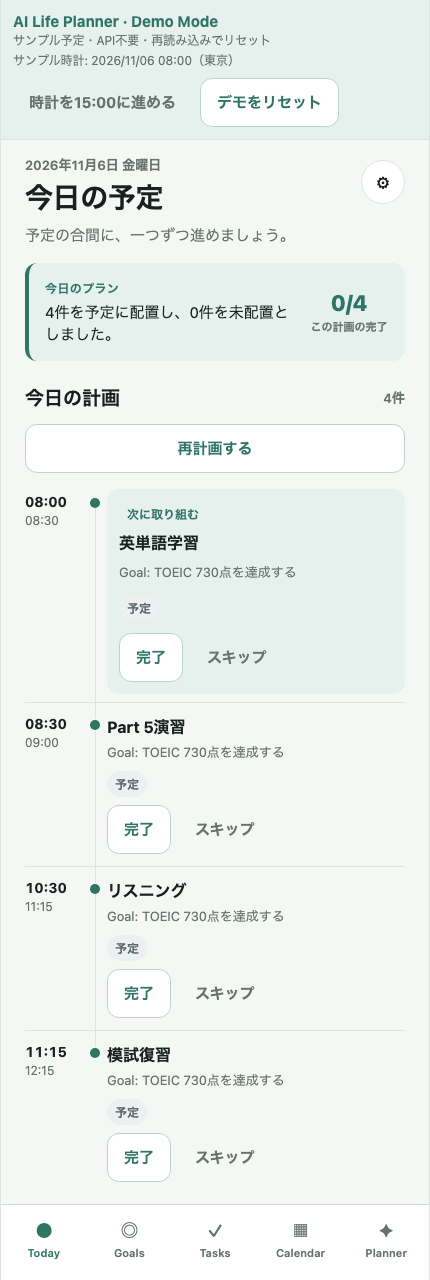
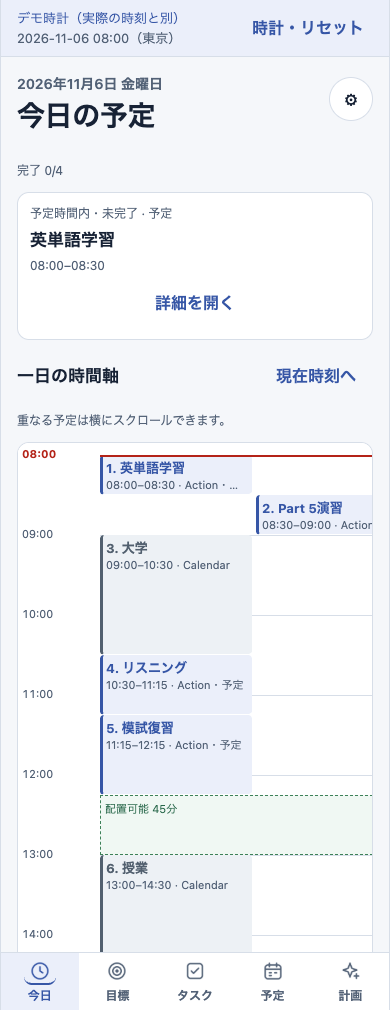
docs: refresh portfolio README and Web Demo screenshots

diff --git a/README.md b/README.md
@@ -1,13 +1,81 @@
 # AI Life Planner
 
-カレンダーの予定とGoals / Tasksから空き時間を計算し、その日の行動計画を自動生成するライフプランニングアプリ。
-React Native / ExpoによるNative版と、ログイン不要のWeb Demoで同じPlannerロジックを使います。
+カレンダーの予定を避けて、目標のためのタスクを1日の空き時間に自動で割り振るアプリです。
 
-## Demo
+## Web Demo
 
-**Web Demoは公開準備済みです。GitHub Pagesの初回公開・動作確認後、この節へ公開URLを追加します。**
+**ログイン不要で、サンプルの計画づくりから実行までブラウザで試せます。**
+GitHub Pagesは公開準備中です。公開後に確認したURLをここに掲載します。[ローカルで試す手順](#ローカルで試す)
 
-APIキーやアカウントなしで、サンプルの一日をブラウザで試せます。
+<img src="docs/screenshots/web-today-desktop.png" width="780" alt="PC版Web Demoの今日画面。左側のナビゲーションと、タスク・カレンダー予定・空き時間を表示した時間軸" />
+
+保存した計画を「今日」で開いた画面です。次に取り組むタスクと、その日の予定が時間軸に並びます。
+
+<details>
+<summary>モバイル幅の入口・保存前の確認・今日の時間軸を見る</summary>
+
+**Web Demoの入口** — サンプルですぐに計画を作るか、先にタスクを見るかを選べます。
+
+<img src="docs/screenshots/web-demo-mobile.png" width="340" alt="サンプルで計画を作ってみるボタンと3ステップの案内があるWeb Demoの入口" />
+
+**保存前の確認** — カレンダー予定と重ならない時間に入ったタスクを、時刻順に確認できます。
+
+<img src="docs/screenshots/web-planner-preview.png" width="340" alt="保存前の計画画面。4件のタスク、カレンダー予定との区別、保存ボタンを表示" />
+
+**保存後の「今日」** — 時間軸のカードを開いて、タスクを完了またはスキップできます。
+
+<img src="docs/screenshots/web-today.png" width="340" alt="保存直後の今日画面。次のタスク、08時の現在時刻線、カレンダー予定と配置可能な空き時間を表示" />
+
+</details>
+
+カレンダーと空き時間、目標、タスク一覧、PC版の入口も掲載しています。[スクリーンショット一覧](docs/screenshots/README.md)
+
+## 使い方
+
+1. 入口の **「サンプルで計画を作ってみる」** から「今日の計画を作成」を押します。
+2. 何をいつやるかを確認し、**「この計画を保存」** を押します。
+3. **「今日の計画を見る」** から時間軸へ進み、タスクを開いて完了・スキップを試せます。
+4. 予定を組み直したい場合は、デモ時計を15:00に進めてから「再計画する」を試せます。
+
+Web Demoはルールベースで動作します。OpenAI APIは使いません。デモ時計はサンプル日の時刻で、データはこのタブのメモリに保持されます。再読み込みやリセットで初期状態に戻ります。
+
+自分の使い方に合わせて、目標の進捗やタスクの所要時間・期限・優先度、活動時間や予定前後の余白も調整できます。iPhone向けNative版は、許可を得た端末カレンダーを読み取り、Supabaseでユーザー別に保存します。Native版には任意のOpenAI連携もあります。
+
+## 制作背景
+
+目標を立てても、いつ取り組むかを決めないままだと行動に移しにくくなります。タスクとカレンダーが別々だと、授業などの合間に何ができるかも見落としがちです。そこで、目標をタスクに分け、予定の合間の具体的な時刻に割り振り、実行結果に応じて組み直せるアプリを作りました。
+
+## 技術的な工夫
+
+- **空き時間を計算する。** 読み取った予定の重なりをまとめ、前後の余白と最小空き時間を考慮します。プロフィールのタイムゾーンを基準に、翌日深夜までの活動時間や夏時間（DST）の境界も扱います。
+- **作成と保存を分ける。** ルールベースで期限・優先度・所要時間を使って配置し、承認時に最新の設定・予定・タスクで再検証します。保存条件を満たさなくなった提案は拒否します。
+- **保存と実行の整合性を保つ。** NativeではSupabase Authと行レベルセキュリティ（RLS）を使い、計画と明細をDB関数内の一つのトランザクションで保存します。完了・スキップの履歴は再計画後も参照できます。
+- **NativeとWebで計算を共用する。** 共通の計画・検証処理を使い、データの読み書きだけを切り替えます。Web Demoは端末カレンダーやSupabaseへ接続せず、サンプルとメモリ上のデータで動きます。
+
+実装の入口と保存境界は[アーキテクチャ](docs/architecture.md)へ。制作の進め方とCodexの利用範囲は[ポートフォリオ用の開発紹介](docs/portfolio.md)にまとめています。
+
+## 技術スタックと構成
+
+| 領域        | 技術                                                                                 |
+| ----------- | ------------------------------------------------------------------------------------ |
+| アプリ・Web | React Native、Expo SDK 57、Expo Router、React Native Web                             |
+| 計画・表示  | TypeScript、共通PlannerとValidator、Clearデザインシステム                            |
+| Native連携  | Expo Calendar、Supabase Auth／PostgreSQL／RLS、任意のOpenAI用Edge Function           |
+| 品質・配信  | Jest、React Native Testing Library、ESLint、Prettier、GitHub Actions、静的Web export |
+
+`src/features` に機能ごとの画面と共通の業務処理、`src/services` にデータ接続を置き、`src/navigation` でプラットフォームごとに接続先を選びます。[設計・検証ドキュメント一覧](docs/README.md)
+
+## テストと検証範囲
+
+- **自動テスト** — 68スイート・715件が成功（2026年11月10日）。計画、時刻・DST、保存・実行・再計画などを検証しています。GitHub ActionsのCIで型・lint・フォーマットとJestを確認します。
+- **Web／Simulator** — 最新のWeb exportをChromeで操作し、375pxと1440pxの初回体験、生成・保存・完了・スキップ・再計画を確認しました。iOS Simulatorでの時間軸、短い予定、文字拡大の確認は別記録にまとめています。[Web検証](docs/web-demo.md#今回の公開準備で確認した範囲) · [時間軸の検証](docs/today-time-axis.md)
+- **iPhone実機** — Core v1の主要フローと、当時のRelease版のUSB・Metroなしでの起動を確認済みです。Step 10のPR #15相当版では一部を実機で再確認しました。実機VoiceOver・文字拡大、同版のUSB解除後の確認などが残っています。[Core v1の実機記録](docs/ios-personal-release.md) · [Step 10の確認範囲](docs/portfolio.md#実機とブラウザでの確認範囲)
+
+OpenAI実API・Android・全ブラウザの動作は検証範囲外です。対応状況の詳細は[開発・検証記録](docs/README.md)を参照してください。
+
+## ローカルで試す
+
+Node.js `^22.13.0 || >=24` とnpmを用意します。Web Demoの起動に環境変数やアカウントは不要です。
 
 ```sh
 npm ci
@@ -16,133 +84,10 @@ npm run verify:pages
 npm run preview:pages
 ```
 
-[ローカルのWeb Demoを開く](http://127.0.0.1:4173/ai-life-planner/) → Tasksを確認 → Calendarの空き時間を確認 → Plannerで生成 → Previewを保存 → Todayで完了・スキップ。
+[ローカルのWeb Demoを開く](http://127.0.0.1:4173/ai-life-planner/)。Native開発には自分のSupabase開発プロジェクトと開発ビルドが必要です。iOSのビルドはmacOSとXcodeを使用します。[開発手順・品質チェック](docs/development.md)
 
-サンプル時計は**2026年11月6日08:00（東京）**に固定しています。「時計を15:00に進める」で再計画を試せます。
-データはこのタブのメモリ内に保持し、reload・リセットで初期化します。Supabase・端末Calendar・OpenAIへの接続は不要です。
-公開手順は[Web Demoガイド](docs/web-demo.md)を参照してください。
+## セキュリティ・ライセンス
 
-## Overview
+端末カレンダーは読み取り専用です。NativeのOpenAI APIキーはSupabase Edge Function側で管理し、アプリには含めません。実際の `.env` やサーバー用の秘密鍵はGit管理の対象外です。[公開前チェック](docs/portfolio-release.md#現在のpages公開前チェック)
 
-目標を立てても、今日いつ何をするかまで決めるのは難しい。タスクリストとカレンダーが別々だと、
-予定の合間に使える時間も見落としがちです。
-
-AI Life Plannerは、目標を具体的なTaskへ分け、カレンダーの空き時間へ自動配置します。
-提案を確認してから保存し、実行結果を記録して、残り時間の計画を組み直すところまでを一つの流れにしました。
-自身が使うNativeアプリとして開発し、設計と動作を第三者にも試してもらえるようWeb Demoを用意しています。
-
-## Main Features
-
-| 機能                           | Native                                                               | Web Demo                             |
-| ------------------------------ | -------------------------------------------------------------------- | ------------------------------------ |
-| Goals / Tasks / Settings       | 目標・TaskのCRUD、所要時間・優先度・期限・計画設定                   | 同じ操作をサンプルデータで体験       |
-| Calendar / Free Time           | 権限取得後に端末予定を読み取り、timezoneと活動時間から空き時間を計算 | サンプル予定から同じCalculatorで計算 |
-| RuleBased Planner              | 期限・優先度・所要時間から決定的に配置。API不要                      | 同じProviderを使用                   |
-| Optional OpenAI Planner        | 共通Contractに沿う任意Providerを実装                                 | 使用しない                           |
-| Preview / Save / Today         | Validatorで検証し、承認後にDBへ保存して表示                          | メモリへ保存してTodayへ反映          |
-| Complete / Skip / Activity Log | 完了時は関連Taskも完了。SkipはTaskを残し、実行履歴を保持             | 同じ操作・履歴を体験                 |
-| Replanning                     | 最新データと残り時間で全置換。競合・古いPreviewを検知し、履歴は保持  | メモリ内の競合ガードで同じ流れを体験 |
-| Auth / persistence             | Supabase Auth・RLS・PostgreSQLによるユーザー別保存                   | ログイン不要。reloadで初期化         |
-
-Core v1 Native版の主要フローはiOS Simulator・iPhone 16で確認済みです。
-無料Personal Team署名の**Release buildで、Metro停止・USB解除後のiPhone単体利用も確認済み**です。
-再署名・上書きinstall手順と検証範囲は[Personal Team Release](docs/ios-personal-release.md)を参照してください。
-OpenAIは任意機能の実装であり、実APIの動作確認を今回の検証範囲には含めていません。
-
-## How it works
-
-```mermaid
-flowchart LR
-  source[Goals / Tasks + Calendar] --> free[Free Time Calculator]
-  free --> planner[Planner + Validator]
-  planner --> preview[Preview]
-  preview -->|承認・保存| today[Today]
-  today -->|Complete / Skip・Replanning| source
-```
-
-Nativeは端末CalendarとSupabase、Web DemoはサンプルCalendarとメモリ内Repositoryを入力・保存先に使います。
-提案を作っただけでは保存せず、ユーザーの承認を境界にします。
-
-## Screenshots
-
-以下は**Web Demoの実画面**です。TOEIC学習のサンプルデータのみを使い、Native実機画面と区別しています。
-
-<table>
-  <tr><th>Today</th><th>Planner Preview</th><th>Calendar / Free Time</th></tr>
-  <tr>
-    <td><img src="docs/screenshots/web-today.png" width="260" alt="サンプルTaskが配置されたWeb DemoのToday画面" /></td>
-    <td><img src="docs/screenshots/web-planner-preview.png" width="260" alt="保存前のルールベースPlanner Preview" /></td>
-    <td><img src="docs/screenshots/web-calendar-free-time.png" width="260" alt="大学・授業などの予定と4枠の空き時間" /></td>
-  </tr>
-</table>
-
-[Desktop版・Goals / Tasksの画像と撮影手順](docs/screenshots/README.md)も用意しています。
-
-## Tech Stack
-
-| 領域               | 技術                                                                          |
-| ------------------ | ----------------------------------------------------------------------------- |
-| App / Web          | React Native 0.86.3、Expo SDK 57、React 19.2.3、React Native Web、Expo Router |
-| 言語 / 品質        | TypeScript strict、Jest、React Native Testing Library、ESLint、Prettier       |
-| Nativeデータ       | Supabase Auth、PostgreSQL、RLS、transactional RPC                             |
-| Calendar / session | expo-calendar、expo-sqlite                                                    |
-| 任意AI             | Supabase Edge Functions → OpenAI Responses API                                |
-| CI / hosting       | GitHub Actions、GitHub Pages向けstatic export                                 |
-
-## Architecture
-
-- **Coreを共有**: 空き時間計算・候補選定・配置・ValidatorはNative / Webで共通のTypeScriptロジック。
-- **Repository境界**: UIと業務処理はinterfaceへ依存し、Supabase / 端末Calendar / DemoのI/Oをadapterで分離。
-- **Provider共通Contract**: RuleBasedと任意OpenAIの出力を`unknown`から共通Validatorで検証。
-- **承認とatomic persistence**: Preview承認時に最新データで再検証し、NativeではPlanとActionをRPCで一括保存。
-- **履歴と競合**: Activity Logは実行時点のsnapshot。Guarded Replanningで旧Previewの上書きを防ぎ、置換後も履歴を保持。
-- **Demoの独立**: Web用compositionはNative側のAuth / Supabase / Calendar SDKをbundleへ取り込まず、production DBへ接続しない。
-
-コードの入口と設計の説明は[Architecture](docs/architecture.md)、要件・検証の一覧は[docs index](docs/README.md)へ。
-
-## Testing / Verification
-
-- **54 test suites / 497 tests**（unit / integration）。Planner、timezone、Calendar正規化、CRUD、承認、保存、実行、履歴、再計画を検証。
-- **iOS Simulator E2E・iPhone 16実機**でCore v1の主要フローを確認。[Native検証記録](docs/README.md#verification)
-- **Web production export**をローカル配信し、生成→保存→実行→再計画、直接URL、reloadを確認。
-- Desktop / Tablet / Mobile相当の1440 / 768 / 390 / 375px幅を確認。[Web検証記録](docs/web-demo.md#verification)
-
-検証済み範囲と未確認事項は各記録に分けて記載しています。Android、全ブラウザ、全異常系の保証ではありません。
-
-## Development / Local Setup
-
-前提: Node.js `^22.13.0 || >=24`、npm。Web Demoは先頭の手順だけで動作します。
-
-Native開発はiOS / Android開発環境と、自分のSupabase開発プロジェクトを用意します。
-
-```sh
-npm ci
-cp .env.example .env
-# .envに自分のSupabase Project URLとPublishable Keyを設定
-npm run ios
-# インストール済みdevelopment buildへ接続する場合
-npm run start:dev
-```
-
-Calendar APIはExpo Goでは使えないためdevelopment buildが必要です。iOSのローカルbuildにはmacOS / Xcodeが必要です。
-DB migrations・RLS確認・任意OpenAIの設定・Androidの手順は[開発ガイド](docs/development.md)へ。
-
-```sh
-npm run typecheck
-npm run lint
-npm run format:check
-npm run test:ci
-```
-
-PR用CIでは上記の品質チェックを実行します。Pages公開workflowはmainを対象とした**手動実行のみ**です。
-
-## Security
-
-OpenAI API keyはSupabase Edge Function Secretにのみ置き、clientへ渡しません。
-Supabaseの`service_role` / Secret Keyもclientへ置きません。`.env`はGit管理対象外で、`.env.example`は変数名のみです。
-Web Demoはproduction SupabaseとOpenAIを使用せず、利用者の入力を公開サーバーへ保存しません。
-公開前検査の範囲と残る確認は[公開準備・監査記録](docs/portfolio-release.md)にまとめています。
-
-## License
-
-[MIT](LICENSE)。Expo由来のcopyright noticeを保持しています。
+[MITライセンス](LICENSE)。Expo由来の著作権表示を保持しています。

diff --git a/docs/screenshots/README.md b/docs/screenshots/README.md
@@ -1,45 +1,35 @@
-# Portfolio screenshots
+# Web Demoのスクリーンショット
 
-このフォルダの画像はすべて**Web Demoの実画面**。Native版の画面であるようなラベルは付けない。
-撮影日: 2026-11-06（Asia/Tokyo）。Chrome、production `dist`のローカル配信を使用。
-ブラウザのツールバーを含めず、ページ自体をキャプチャした。画像内容の合成・加工はしていない。
+2026年11月10日に、PR #17までを取り込んだ `main`（`92d609f`）のproduction exportを、分離したChromeプロファイルで撮影しました。Clearデザインと80px／時間の時間軸が入ったWeb Demoの実画面です。すべてサンプルデータを使用し、ブラウザのツールバーや開発者メニューを含めず、合成なしで保存しています。
 
-## 用意済み
+| 画像                                               | 撮影時の状態                                                     | ビューポート |
+| -------------------------------------------------- | ---------------------------------------------------------------- | ------------ |
+| [入口・モバイル幅](web-demo-mobile.png)            | 初回表示。サンプルで計画を作る主操作と3ステップの案内            | 390×900      |
+| [計画のプレビュー](web-planner-preview.png)        | ルールベースで4件を配置した直後。保存前の確認と保存ボタン        | 390×1070     |
+| [今日の時間軸・モバイル幅](web-today.png)          | 保存後・実行前。次のタスク、現在時刻線、予定、配置可能な空き時間 | 390×1010     |
+| [カレンダーと空き時間](web-calendar-free-time.png) | サンプル予定3件と、配置可能な空き時間4枠・合計660分              | 390×1680     |
+| [目標](web-goals.png)                              | TOEICの目標、現在値600点と目標値730点、進捗82%                   | 390×600      |
+| [タスク](web-tasks.png)                            | 計画作成前の学習タスク。所要時間、期限、優先度、絞り込み         | 390×1300     |
+| [入口・PC幅](web-demo.png)                         | 初回表示。横並びの操作と体験の3ステップ                          | 1440×640     |
+| [今日の時間軸・PC幅](web-today-desktop.png)        | 保存後・実行前。左のサイドナビと右の時間軸                       | 1440×900     |
 
-| ファイル                                                 | 状態・用途                                                                  | viewport |
-| -------------------------------------------------------- | --------------------------------------------------------------------------- | -------- |
-| [web-today.png](web-today.png)                           | 4 Task保存後。全件scheduled、次のActionと完了・Skip操作が分かる。README掲載 | 430×1280 |
-| [web-planner-preview.png](web-planner-preview.png)       | RuleBasedで4件配置、保存前、配置時刻とCalendar非重複が分かる。README掲載    | 430×1280 |
-| [web-calendar-free-time.png](web-calendar-free-time.png) | サンプル予定3件と空き時間4枠・合計660分。README掲載                         | 430×1280 |
-| [web-tasks.png](web-tasks.png)                           | 同じ4 Task、優先度・期限・所要時間。追加の紹介用                            | 430×1000 |
-| [web-goals.png](web-goals.png)                           | TOEICのGoalと進捗。追加の紹介用                                             | 430×1000 |
-| [web-demo.png](web-demo.png)                             | Desktopの入口と体験説明。ポートフォリオのリンク用                           | 1280×900 |
-
-READMEには主要3枚だけを横並びで載せる。追加画像はここから参照できる。
-撮影用の長いviewportは情報を読みやすく収めるためのもの。特定iPhoneの実解像度を表すものではない。
-375 / 390px等の通常viewportでの表示検証は[Web Demo記録](../web-demo.md#verification)を参照。
+高さは各画面の情報を収めるために設定した撮影用の値です。通常の375px幅・1440px幅での動作確認は[Web Demoの検証記録](../web-demo.md#今回の公開準備で確認した範囲)を参照してください。
 
 ## 共通データ
 
-- Goal: **TOEIC 730点を達成する**、現在600点、目標730点、期限2026-12-06。
-- Tasks: 英単語30分（高・サンプル当日期限）、Part 5演習30分（高・翌日期限）、リスニング45分（中）、模試復習60分（低）。
-- Calendar: 大学09:00–10:30、授業13:00–14:30、サークルの予定18:00–19:00。
-- Settings: Asia/Tokyo、08:00–23:00、最小20分。
-- サンプル時計: 2026-11-06 08:00 JST。実際の現在時刻ではない。
-- 保存後の配置: 08:00–08:30、08:30–09:00、10:30–11:15、11:15–12:15。
+- 目標はTOEIC 730点。現在600点、期限は2026年12月6日です。
+- タスクは英単語30分、Part 5演習30分、リスニング45分、模試復習60分です。
+- カレンダーは大学09:00–10:30、授業13:00–14:30、サークルの予定18:00–19:00です。
+- 設定はAsia/Tokyo、活動時間08:00–23:00、最小空き時間20分です。
+- デモ時計は2026年11月6日08:00（東京）。保存した4件は08:00、08:30、10:30、11:15に始まります。
 
-Web画像に実名・メール・Supabase情報・APIキー・端末の個人予定はない。
-README掲載前に全画像を目視確認した。撮影で利用した一時Chrome profileとダミーデータは本番データから分離している。
+## 再撮影する場合
 
-## Webの再撮影
-
-1. `npm run export:pages`、`npm run verify:pages`、`npm run preview:pages`を実行する。
-2. ローカルのDemoを新しいブラウザprofileまたはprivate windowで開く。ログインは不要。
-3. 「デモをリセット」で08:00へ戻し、Goal / Tasksが上記のデータになっていることを確認する。
-4. Calendarを撮影。Plannerを生成し、**保存前**のPreviewを撮影する。
-5. 保存してTodayへ移り、完了・Skipする前の状態を撮影する。
-6. 同じviewportと拡大率100%を使い、個人profileのブラウザtoolbar・通知を含めない。
-7. ファイル名はこのフォルダのものを使用し、個人情報がないことを目視で確認する。
+1. `npm run export:pages`、`npm run verify:pages`、`npm run preview:pages`を実行します。
+2. 分離したブラウザプロファイルで入口を開きます。データを初期化する場合はページを再読み込みするか、「時計・リセット」から「デモをリセット」を使います。
+3. 入口・目標・タスク・カレンダーを撮影します。計画を作成し、**保存前**のプレビューを撮影します。
+4. 計画を保存して「今日の計画を見る」を押し、完了・スキップする前の時間軸を撮影します。
+5. 幅・表示倍率・ファイル名を揃え、氏名やメールアドレス、実際の予定、接続先や秘密情報が写っていないことを目視で確認します。
 
 ## Native画面を追加する場合（ユーザー操作）
 

diff --git a/docs/portfolio.md b/docs/portfolio.md
@@ -1,0 +1,30 @@
+# ポートフォリオ用の開発紹介
+
+## 30秒で説明する
+
+目標を決めても、カレンダーの予定を見ながら「いつやるか」まで決めるのは手間がかかります。AI Life Plannerは、目標に紐づくタスクを予定の合間に割り振り、確認してから保存できるアプリです。「今日」の時間軸から完了やスキップを記録し、残り時間の計画を組み直せます。ログイン不要のWeb Demoではサンプルの一日を体験できます。
+
+## 面接で説明できる設計判断
+
+| 課題                                           | 実装と判断                                                                                                                                                                                                                                  |
+| ---------------------------------------------- | ------------------------------------------------------------------------------------------------------------------------------------------------------------------------------------------------------------------------------------------- |
+| カレンダー上の隙間がそのまま使えるとは限らない | 端末カレンダーは権限を得て読み取り専用で取得。塞がる区間の統合、共通・個別の余白、最小空き時間を反映して候補を求める。活動が翌日にまたがる場合は計画日と暦日を分け、時刻表示はプロフィールのタイムゾーン、経過時間の計算はUTCを基準にする。 |
+| 配置結果を確認してから使いたい                 | ルールベースで期限・優先度・所要時間を使って決定的に配置。承認時に最新データで再検証し、枠外や候補消失などで無効になった提案の保存を拒否。時間の境界や変更後の承認をJestで検証する。                                                        |
+| 保存・再計画で記録を壊したくない               | Supabase AuthとRLSで操作をユーザー別に制限し、計画と明細をRPC内で一括保存。再計画では競合条件も確認する。完了は関連タスクも完了にし、スキップはタスクを残す。履歴は実行時点の内容を保持するので、計画を組み直しても参照できる。             |
+| 閲覧者が設定なしで試せるようにする             | React NativeとWebで空き時間計算・計画・検証を共有。Webだけ端末カレンダーとSupabaseの代わりにサンプル・メモリ内Repositoryを使う。Web Demoではルールベースのみを使用し、任意のOpenAI連携はNativeからEdge Functionを経由する。                 |
+
+実装の入口とRepositoryの役割は[アーキテクチャ](architecture.md)、日付や承認の境界は[翌日深夜対応の設計](overnight-planning.md)にまとめています。
+
+## 開発と検証の進め方
+
+要件を段階に分け、目標・タスク・予定から計画を作る流れと、承認・実行・履歴を先に整えました。その後、翌日深夜の活動、時間軸、画面ごとの情報の優先順位を順に改善しました。UIでは複数案を比較してClearを採用し、Web Demoの入口では初めての人がタスクを登録せずに試せる導線を優先しました。[要件定義](requirements/requirements-v0.1.md) · [Clearデザインシステム](clear-design-system.md)
+
+Codexを、コードやテストの実装、既存実装の調査、ブラウザでの動作確認、差分確認の補助に使いました。開発の説明では、採用した要件・設計判断と、テストやブラウザ・実機で確認した範囲を区別します。PRとmainではGitHub Actionsで型・lint・フォーマット・Jestを実行し、Webの公開用成果物は静的exportと検査で確認します。[開発手順](development.md) · [Webの検証記録](web-demo.md#今回の公開準備で確認した範囲)
+
+## 実機とブラウザでの確認範囲
+
+- **Core v1のiPhone 16**では、端末予定の読み取り、計画の保存・実行・再計画などを確認。当時のPersonal Team署名のRelease版はUSBとMetroを外した状態での起動も確認しました。[実機の検証](ios-device-core-v1-verification.md) · [Releaseの検証](ios-personal-release.md)
+- **Step 10のiPhone 16（PR #15相当）**では、Release版の上書き、セッション復元、設定の保存・復元、既存権限でのカレンダー表示を確認しました。QAデータによる追試で、古いプレビューの承認拒否、再生成・保存、完了・スキップ、再計画後の履歴保持を確認しました。USB解除後の起動・通信、実機VoiceOver・文字拡大、戻るジェスチャー、深夜の実時間表示、異常系などは未確認です。
+- **iOS SimulatorとWeb**では、重複・短時間予定と文字拡大を確認した記録があります。最新のWeb DemoはローカルChromeでサンプルの生成から実行・再計画まで確認しました。撮影画像はWeb Demoです。[時間軸の記録](today-time-axis.md) · [ナビゲーションの記録](clear-navigation-layout.md) · [撮影画像](screenshots/README.md)
+
+OpenAI実API、Android、Safariを含む全ブラウザの動作は、この公開準備で検証していません。

diff --git a/docs/portfolio-release.md b/docs/portfolio-release.md
@@ -1,5 +1,17 @@
 # Portfolio release preparation
 
+## 現在のPages公開前チェック
+
+README・スクリーンショットを更新し、最新のWeb Demoをproduction exportしてローカルで確認済みです。以降の監査・履歴整理は2026年11月6日時点の記録です。公開用リポジトリの初回作成手順は当時の引き継ぎとして参照してください。
+
+1. 公開に使う `main` のコミットと通常CIの成功、GitHubのSettings → Pagesでの公開元を確認する。
+2. 公開を決めたら、Actionsの `Web Demo Pages` を `main` から手動実行し、公開ジョブが成功したことを確認する。
+3. 出力されたURLで入口、JavaScriptや画像などの静的ファイル、`/tasks`・`/calendar`・`/ai`・`/today`・`/settings` の直接表示と再読み込みを確認する。
+4. スマホ幅・PC幅で計画の作成・保存・実行・再計画を試し、外部APIへの通信がないことを確認する。
+5. 動作確認した公開URLをREADMEとGitHubのAbout Websiteに登録する。
+
+Step 10の実機確認には、USBを外した状態での起動と通信、VoiceOver、文字拡大などが残っています。公開を判断する際は、残っている実機確認の結果も確認します。[実機とブラウザでの確認範囲](portfolio.md#実機とブラウザでの確認範囲)
+
 ## 公開用clean historyの検証結果（2026-11-06）
 
 元private repositoryを変更せず、独立したコピーをgit-filter-repo v2.47.0で整理した。

diff --git a/docs/architecture.md b/docs/architecture.md
@@ -48,7 +48,8 @@ Web Demoは同じRepository契約をメモリ内で実装する。DB transaction
 
 ## 現在の範囲
 
-主対象は日本語のCore v1 Nativeアプリと、API不要の公開用Web Demo。
-Calendarの書き込み、Todayへの端末予定の統合、OAuth、password reset、offline同期、
-自動Replanning、OpenAIの実API E2Eは現在の確認範囲に含めない。
-NativeのMetroなしRelease buildは次の検証対象。
+主対象は日本語のiPhone向けNativeアプリと、ログイン不要のWeb Demoです。Todayの時間軸には計画したタスクと読み取ったカレンダー予定を表示し、保存済みの計画と現在の空き時間を区別します。[Todayの時間軸](today-time-axis.md)
+
+活動時間はプロフィールのタイムゾーンで定義し、翌日深夜まで続く計画日を暦日と分けて扱います。夏時間で存在しない、または二重になる活動時刻は明示的に拒否します。[翌日深夜対応](overnight-planning.md)
+
+カレンダーへの書き込み、OAuth、パスワード再設定、オフライン同期、自動再計画は対象外です。OpenAIは任意のNative連携として実装し、実APIのE2Eは未確認です。実機とWebの確認結果はそれぞれの記録を参照してください。[確認範囲](portfolio.md#実機とブラウザでの確認範囲)

diff --git a/docs/README.md b/docs/README.md
@@ -28,7 +28,8 @@
 ## Web Demo / portfolio
 
 - [Web Demoのローカル起動・GitHub Pages公開手順](web-demo.md)
-- [公開用screenshots・サンプルデータ・Native撮影手順](screenshots/README.md)
+- [ポートフォリオ用の開発紹介・実機とブラウザの確認範囲](portfolio.md)
+- [公開用スクリーンショット・サンプルデータ・Native撮影手順](screenshots/README.md)
 - [公開準備・Security / Privacy監査・GitHub設定チェック](portfolio-release.md)
 - [個人メールを非公開にするための履歴整理手順](history-privacy.md)
 - [依存脆弱性・SDK 57互換更新・公開可否の評価](dependency-security.md)
